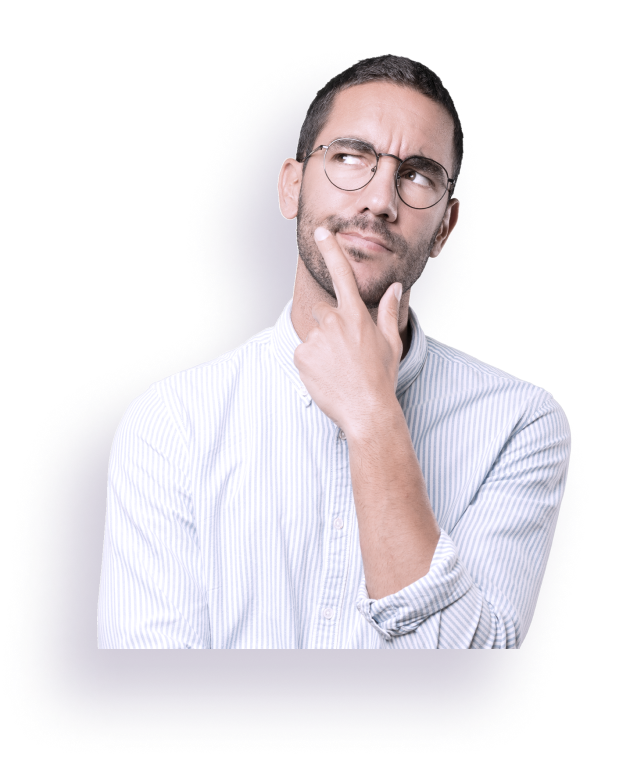
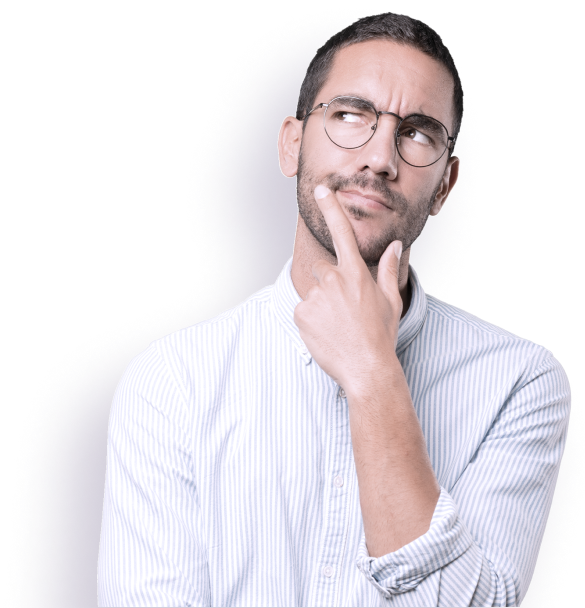
modified:   gatsby-config.js 	modified:   src/components/home/Collaboration.jsx 	modified:   src/components/home/Free_trail.jsx 	modified:   src/components/home/HeroSection.jsx 	new file:   src/components/home/HomeFAQ.jsx 	modified:   src/components/home/WorkSession.jsx 	modified:   src/components/i

Changed region(s): [[0.0923, 0.0, 0.9846, 1.0], [0.2769, 0.5312, 0.4308, 0.7188], [0.2154, 0.7812, 0.2462, 0.8125]]

diff --git a/src/ui/Icon.jsx b/src/ui/Icon.jsx
@@ -42,9 +42,9 @@ export const MessageIcon = (props) => (
     <path
       d="M24 22V22.02M32 22V22.02M16 22V22.02M40 42V16C40 14.4087 39.3679 12.8826 38.2426 11.7574C37.1174 10.6321 35.5913 10 34 10H14C12.4087 10 10.8826 10.6321 9.75736 11.7574C8.63214 12.8826 8 14.4087 8 16V28C8 29.5913 8.63214 31.1174 9.75736 32.2426C10.8826 33.3679 12.4087 34 14 34H32L40 42Z"
       stroke="white"
-      stroke-width="3.58333"
-      stroke-linecap="round"
-      stroke-linejoin="round"
+      strokeWidth="3.58333"
+      strokeLinecap="round"
+      strokeLinejoin="round"
     />
   </svg>
 );
@@ -176,9 +176,9 @@ export const Grafixy_questionIcon = (props) => (
         width="71.9185"
         height="99.796"
         filterUnits="userSpaceOnUse"
-        color-interpolation-filters="sRGB"
+        colorInterpolationFilters="sRGB"
       >
-        <feFlood flood-opacity="0" result="BackgroundImageFix" />
+        <feFlood floodOpacity="0" result="BackgroundImageFix" />
         <feColorMatrix
           in="SourceAlpha"
           type="matrix"
@@ -217,8 +217,8 @@ export const GrafixyWhiteIcon = (props) => (
     {...props}
   >
     <path
-      fill-rule="evenodd"
-      clip-rule="evenodd"
+      fillRule="evenodd"
+      clipRule="evenodd"
       d="M23.9473 0.208736L47.6371 0.208736L47.6371 23.8793C47.6371 23.8857 47.6371 23.8921 47.6371 23.8985C47.6371 36.982 37.0308 47.5883 23.9473 47.5883C10.8638 47.5883 0.257568 36.982 0.257568 23.8985C0.257568 10.815 10.8638 0.20874 23.9473 0.208736Z"
       fill="white"
     />

diff --git a/src/components/home/Free_trail.jsx b/src/components/home/Free_trail.jsx
@@ -1,19 +1,16 @@
-import { GatsbyImage, StaticImage } from "gatsby-plugin-image";
+import { StaticImage } from "gatsby-plugin-image";
 import React from "react";
+import manThinking from "../../images/home/Free_trail/manThinking.png";
 
 const Free_trail = () => {
   return (
     <div className="flex h-full">
       <div className="bg-white pl-[100px] flex flex-col items-end  justify-end w-[35%] relative shrink-0">
-        <div className="absolute bottom-0 right-0  flex items-end justify-end ">
-
-        <StaticImage
-          src="../../images/home/Free_trail/manThinking.png"
-          className="-mr-24 w-full h-full "
-          objectFit="cover "
-          layout="constrained"
-          />
-          </div>
+        <img
+          src={manThinking}
+          className="-mr-14 z-30  object-contain h-[120%] absolute right-0 bottom-0"
+          alt="manThinking"
+        />
       </div>
       <div className="py-24 bg-[#6019CE] flex px-20 flex-col">
         <h1 className="font-semibold text-7xl text-white ">

diff --git a/src/components/home/WorkSession.jsx b/src/components/home/WorkSession.jsx
@@ -13,8 +13,8 @@ const WorkSession = () => {
     <div className="grid grid-cols-2 w-full h-full">
       <div className="bg-gradient-to-l to-[#100028] from-[#220058]  pt-[93px] pb-14 px-[160px] pl-[147px] items-center justify-center flex flex-col">
         {filter.map((item) => (
-          <>
-            <span className="flex flex-col items-center justify-center max-w-[525px]">
+          <React.Fragment key={item.id}>
+            <span  className="flex flex-col items-center justify-center max-w-[525px]">
               <img
                 src={item.post}
                 alt={item.subtitle}
@@ -44,7 +44,7 @@ const WorkSession = () => {
             >
               {item.subtitle}
             </h2>
-          </>
+          </React.Fragment>
         ))}
       </div>
       <div className="px-[82px] py-[102px] flex flex-col justify-between gap-4">

diff --git a/src/components/layout/Header.jsx b/src/components/layout/Header.jsx
@@ -1,7 +1,7 @@
 import React from "react";
 import { StaticImage } from "gatsby-plugin-image";
 import { Button } from "../../ui/Button";
-import { Link } from "gatsby";
+import { graphql, Link } from "gatsby";
 
 const navLink = [
   {
@@ -26,6 +26,7 @@ const Header = () => {
   return (
     <nav className="relative h-[.1px] flex items-center  w-full ">
       <div className="px-[147px] flex absolute z-50 h-[67px] items-center justify-between w-full left-0 top-0 mt-[90px]">
+        <img src={data} alt="" />
         <StaticImage
           src="../../images/logo.png"
           alt="logo"
@@ -55,3 +56,11 @@ const Header = () => {
 };
 
 export default Header;
+
+export const data = graphql`
+  query logo {
+    file(relativePath: { eq: "icon.png" }) {
+      relativePath
+    }
+  }
+`;

diff --git a/src/components/home/HeroSection.jsx b/src/components/home/HeroSection.jsx
@@ -14,6 +14,7 @@ const HeroSection = () => {
           <span className="inline-flex items-center">
             Team{" "}
             <img
+            alt="textImage"
               src={hero_textImage}
               className="object-contain ml-2 -mb-4 h-[42px]"
             />
@@ -83,6 +84,7 @@ const HeroSection = () => {
               width={145}
               height={145}
               objectFit="cover"
+              alt="ajid"
             />
           </div>
         </div>

diff --git a/gatsby-config.js b/gatsby-config.js
@@ -7,9 +7,16 @@ module.exports = {
     siteUrl: `https://www.yourdomain.tld`,
   },
   plugins: [
-    "gatsby-plugin-postcss",
+    `gatsby-plugin-postcss`,
     `gatsby-plugin-image`,
     `gatsby-plugin-sharp`,
     `gatsby-transformer-sharp`,
+    {
+      resolve: `gatsby-source-filesystem`,
+      options: {
+        name: `images`,
+        path: `${__dirname}/src/images/`,
+      },
+    },
   ],
 };

diff --git a/src/components/home/HomeFAQ.jsx b/src/components/home/HomeFAQ.jsx
@@ -1,0 +1,14 @@
+import React from "react";
+
+const HomeFAQ = () => {
+  return (
+    <div className="flex w-full">
+      <div className="bg-[#1A0143]">
+        <h2>Frequently Asked Questions</h2>
+      </div>
+      <div className="bg-[#6019CE] pl-[100px] flex flex-col items-end  justify-end w-[35%] relative shrink-0"></div>
+    </div>
+  );
+};
+
+export default HomeFAQ;

diff --git a/src/pages/index.js b/src/pages/index.js
@@ -7,6 +7,7 @@ import {
   Why_grafixy,
   Collaboration,
   Free_trail,
+  HomeFAQ,
 } from "../components";
 import Layout from "../components/layout/layout";
 import "../style/global.css";
@@ -20,6 +21,7 @@ const IndexPage = ({ children }) => {
         <Why_grafixy />
         <Collaboration />
         <Free_trail/>
+        <HomeFAQ />
       </Layout>
     </main>
   );

diff --git a/src/components/index.js b/src/components/index.js
@@ -5,3 +5,4 @@ export { default as Why_grafixy } from "../components/home/Why_grafixy";
 export { default as WorkSession } from "../components/home/WorkSession";
 export { default as Collaboration } from "../components/home/Collaboration";
 export { default as Free_trail } from "../components/home/Free_trail";
+export { default as HomeFAQ } from "../components/home/HomeFAQ";

diff --git a/src/components/home/Collaboration.jsx b/src/components/home/Collaboration.jsx
@@ -43,7 +43,7 @@ const Collaboration = () => {
             >
               <div className="flex items-center justify-center">
                 <MainImage
-                  alt="toy car"
+                  alt="toy_car"
                   src={item.picture}
                   loading="lazy"
                   className="object-cover w-[195px]"
